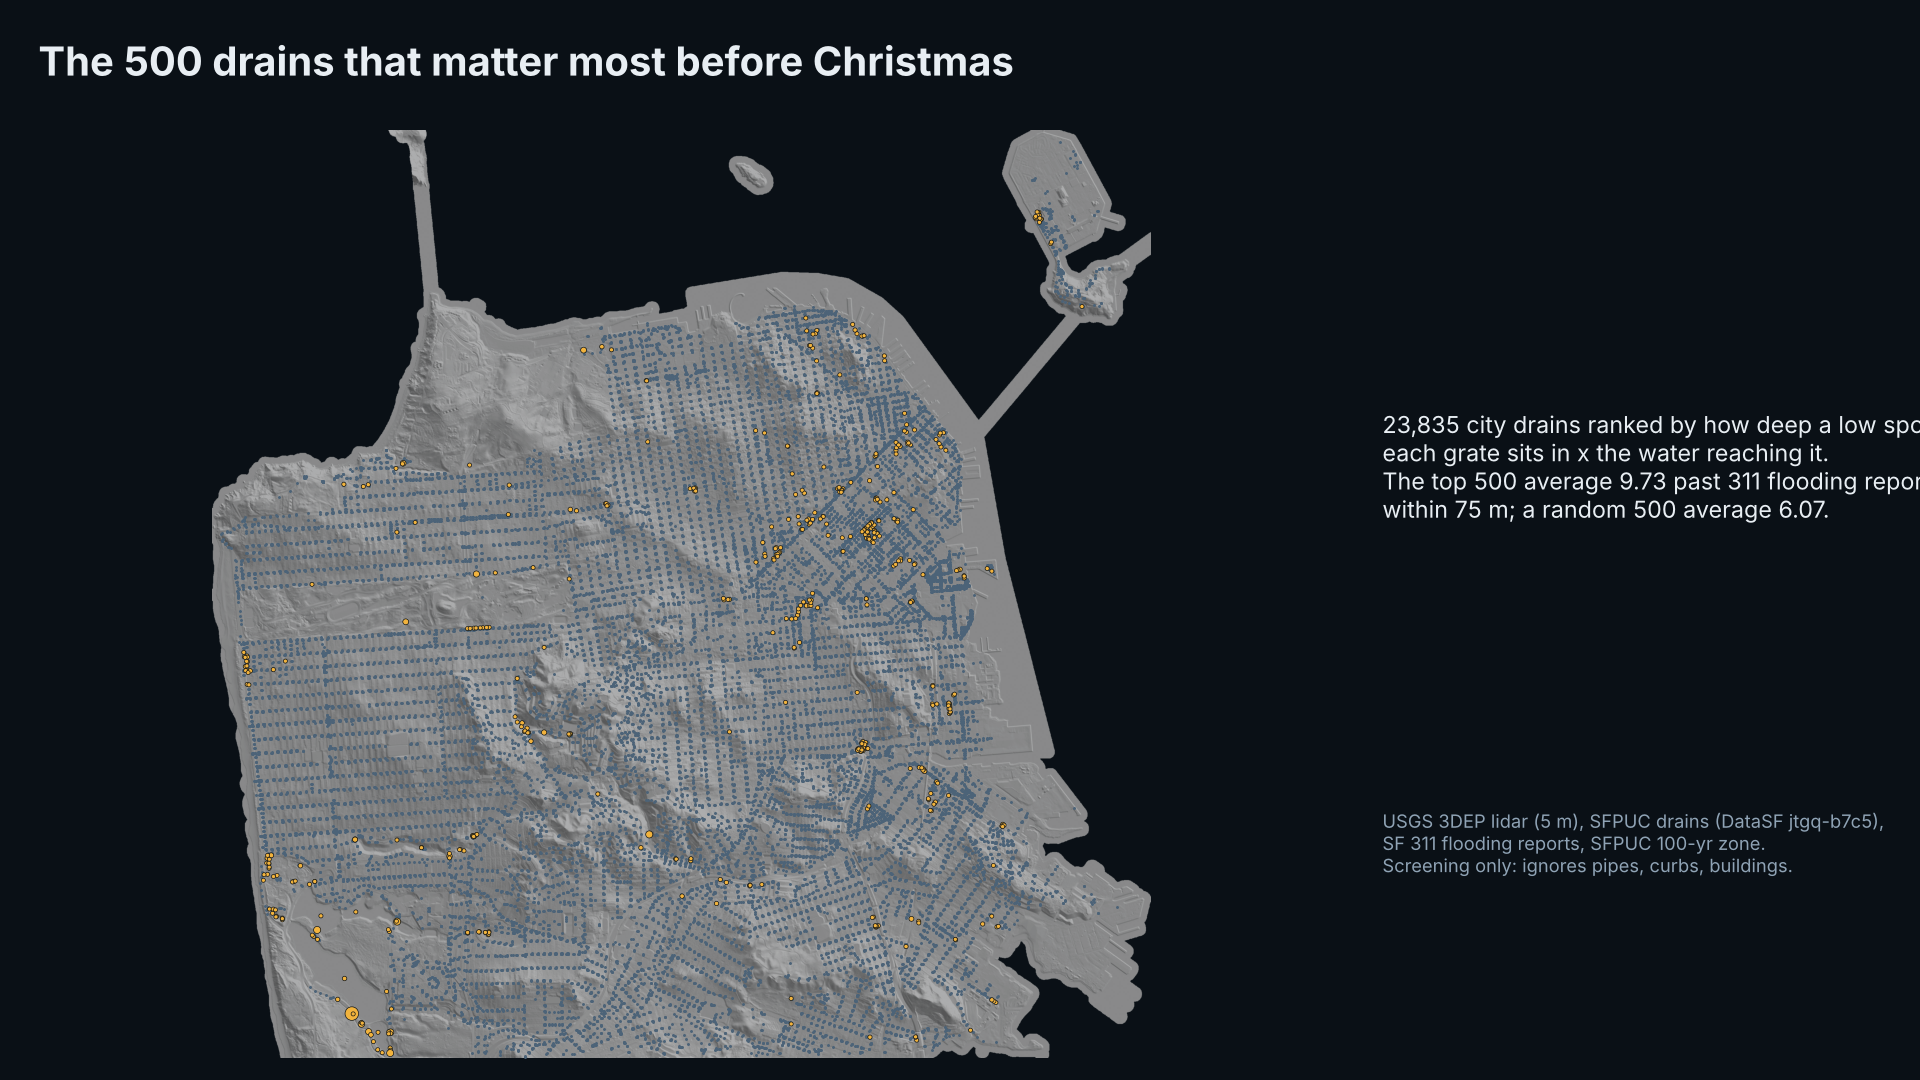
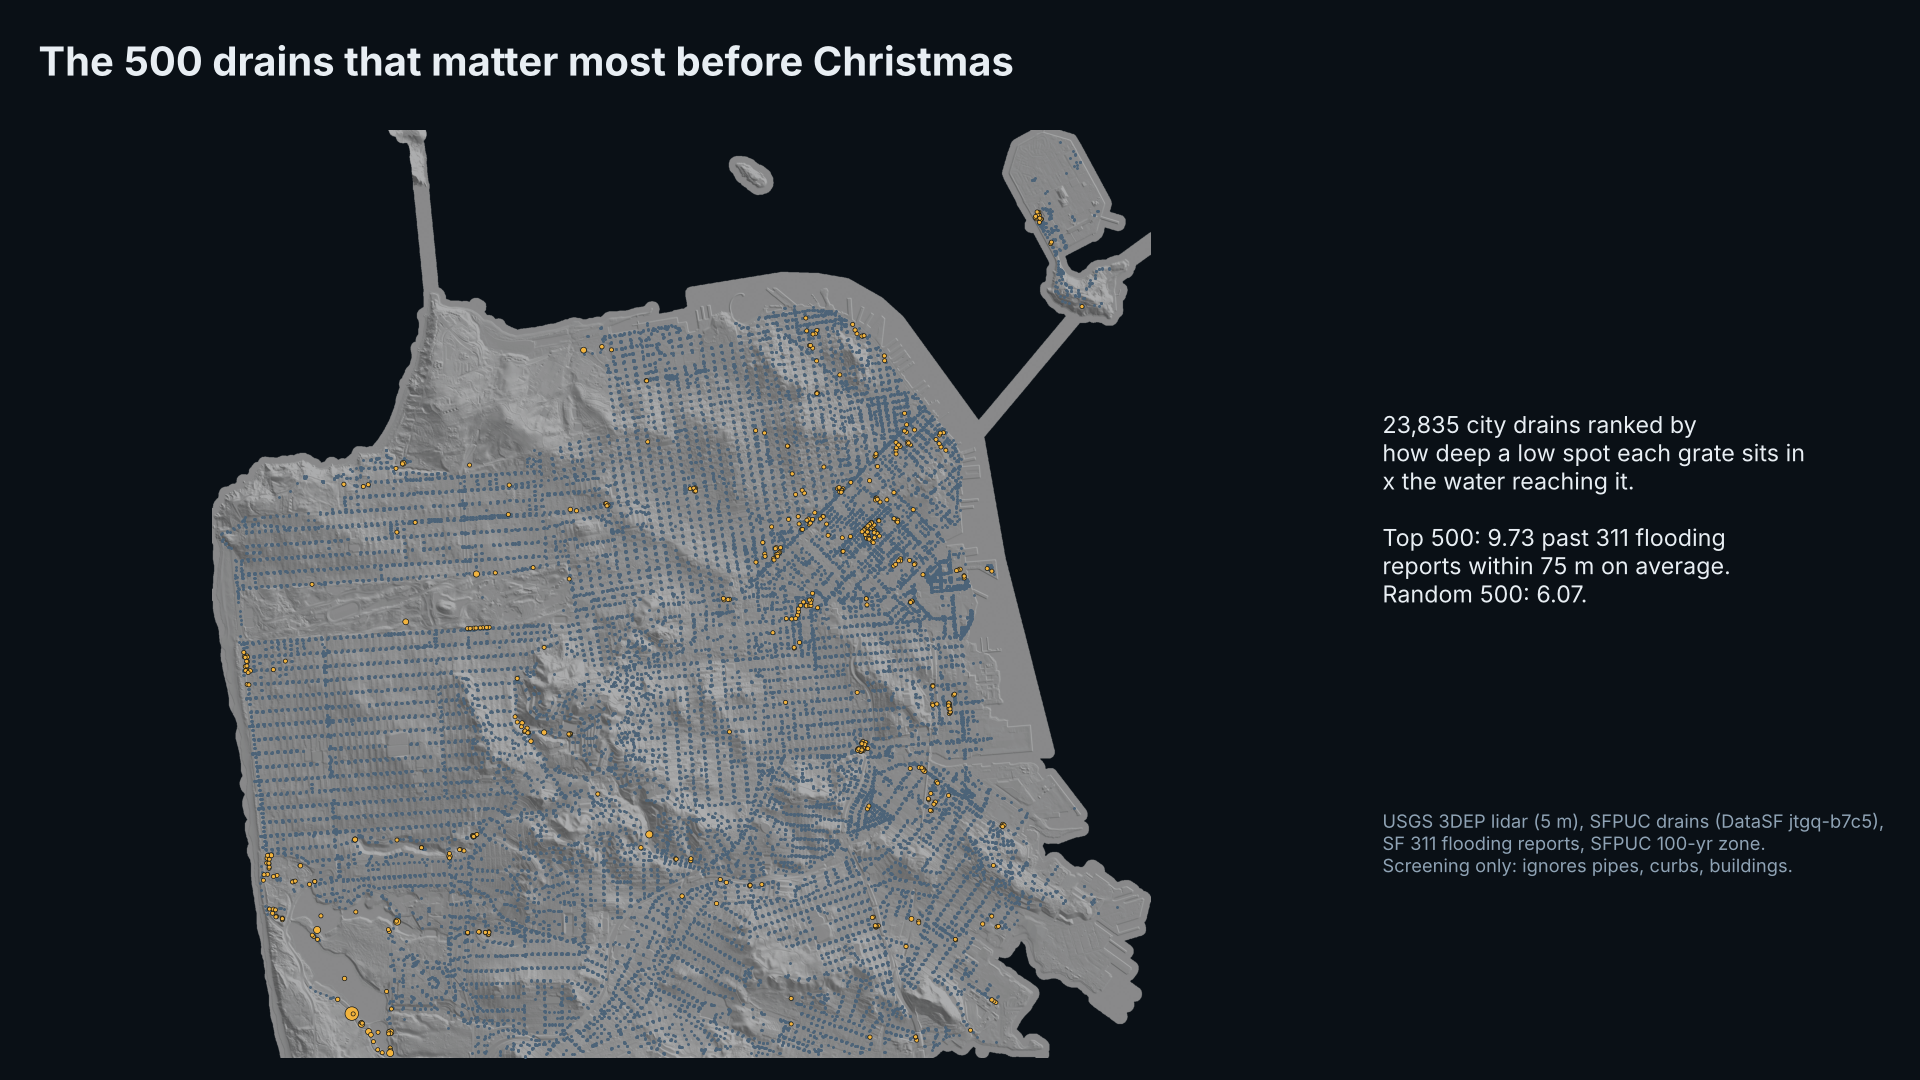
Citywide hotspots: street low spots only (drain within 40 m, <=2.5 m deep); 28 of top 50 in SFPUC 100-yr zone
Claude-Session: https://claude.ai/code/session_01GcHirCeygBtvdvCRcd3tBQ

Changed region(s): [[0.7188, 0.3667, 1.0, 0.5806]]

diff --git a/scripts/citywide_analysis.py b/scripts/citywide_analysis.py
@@ -166,11 +166,18 @@ def main():
     from shapely.geometry import shape, Point
     zone = shape(json.load(open(C / "sfpuc_100yr_zone.geojson"))["features"][0]["geometry"]).buffer(0)
     hs = []
-    for i in np.nonzero(areas >= 250)[0]:
+    dgrid = defaultdict(list)   # city drains, for "is this low spot on the street network?"
+    for d in inlets:
+        dgrid[(int(d["lon"] * kx // 40), int(d["lat"] * ky // 40))].append((d["lon"], d["lat"]))
+    for i in np.nonzero((areas >= 250) & (maxd <= 2.5))[0]:   # >2.5 m deep = lakes, quarries, stairwells
         r, c = com[i]; x, y = T * (c + 0.5, r + 0.5); lo, la = inv_tr.transform(x, y)
         gx, gy = int(lo * kx // 75), int(la * ky // 75)
         n = sum(1 for dx in (-2, -1, 0, 1, 2) for dy in (-2, -1, 0, 1, 2) for j in grid.get((gx + dx, gy + dy), [])
                 if math.hypot((P[j, 0] - lo) * kx, (P[j, 1] - la) * ky) <= 150)
+        ex, ey = int(lo * kx // 40), int(la * ky // 40)
+        if not any(math.hypot((a - lo) * kx, (b - la) * ky) <= 40 for dx in (-1, 0, 1) for dy in (-1, 0, 1)
+                   for a, b in dgrid.get((ex + dx, ey + dy), [])):
+            continue   # not on the street network (park ponds, fields)
         hs.append({"lon": lo, "lat": la, "area_m2": float(areas[i]), "max_depth_m": float(maxd[i]),
                    "volume_m3": float(vol[i]), "flood311_150m": n, "in_sfpuc_100yr": bool(zone.contains(Point(lo, la)))})
     for x in hs:
@@ -192,7 +199,7 @@ def main():
             "captured_area_only_top500_mean_311_75m": round(float(np.mean([d["flood311_75m"] for d in by_area])), 2), "top500_share_of_captured_area": round(sum(d["captured_m2"] for d in top) / sum(d["captured_m2"] for d in inlets), 3),
             "top500_mean_311_75m": round(float(np.mean([d["flood311_75m"] for d in top])), 2),
             "all_mean_311_75m": round(float(np.mean([d["flood311_75m"] for d in inlets])), 2),
-            "bowls_ge_250m2": len(hs), "top50_hotspots_in_sfpuc_zone": sum(x["in_sfpuc_100yr"] for x in hs[:50]),
+            "street_bowls_ge_250m2": len(hs), "top50_hotspots_in_sfpuc_zone": sum(x["in_sfpuc_100yr"] for x in hs[:50]),
             "flood311_reports": len(P), "resolution_m": res,
             "method": "5 m lidar bare earth, priority-flood + D8, inlets intercept flow; bowls = fill depth >= 0.15 m"}
     json.dump(summ, open(C / "summary.json", "w"), indent=1)
@@ -216,15 +223,15 @@ def main():
             for d in top:
                 x, y = tr.transform(d["lon"], d["lat"]); xs.append(x); ys.append(y); ss.append(6 + 60 * (d["captured_m2"] / top[0]["captured_m2"]))
             ax.scatter(xs, ys, s=ss, color="#f2b33d", edgecolor="#0a1016", lw=0.4, zorder=5)
-            note = (f"{len(inlets):,} city drains ranked by how deep a low spot\neach grate sits in x the water reaching it.\n"
-                    f"The top 500 average {summ['top500_mean_311_75m']} past 311 flooding reports\nwithin 75 m; a random 500 average {summ['random500_mean_311_75m_p50_p95'][0]}.")
+            note = (f"{len(inlets):,} city drains ranked by\nhow deep a low spot each grate sits in\nx the water reaching it.\n\n"
+                    f"Top 500: {summ['top500_mean_311_75m']} past 311 flooding\nreports within 75 m on average.\nRandom 500: {summ['random500_mean_311_75m_p50_p95'][0]}.")
         else:
             ax.imshow(np.where(fill >= 0.15, np.minimum(fill, 2.0), np.nan), cmap="Blues", extent=ext, vmin=0, vmax=1.5, alpha=0.95)
             for x in hs[:50]:
                 px, py = tr.transform(x["lon"], x["lat"])
                 ax.scatter(px, py, s=90, facecolor="none", edgecolor="#f2b33d", lw=1.6, zorder=6)
-            note = (f"Blue: low spots where water pools on the lidar terrain.\nAmber rings: top 50 by volume, past 311 flooding\n"
-                    f"and the city's 100-year zone ({summ['top50_hotspots_in_sfpuc_zone']} of 50 inside it).")
+            note = (f"Blue: low spots where water pools\non the lidar terrain.\nAmber rings: the top 50 street low spots\n"
+                    f"by volume, past 311 flooding and the\ncity's 100-year zone ({summ['top50_hotspots_in_sfpuc_zone']} of 50 inside it).")
         ax.set_xticks([]); ax.set_yticks([])
         for sp in ax.spines.values():
             sp.set_visible(False)
